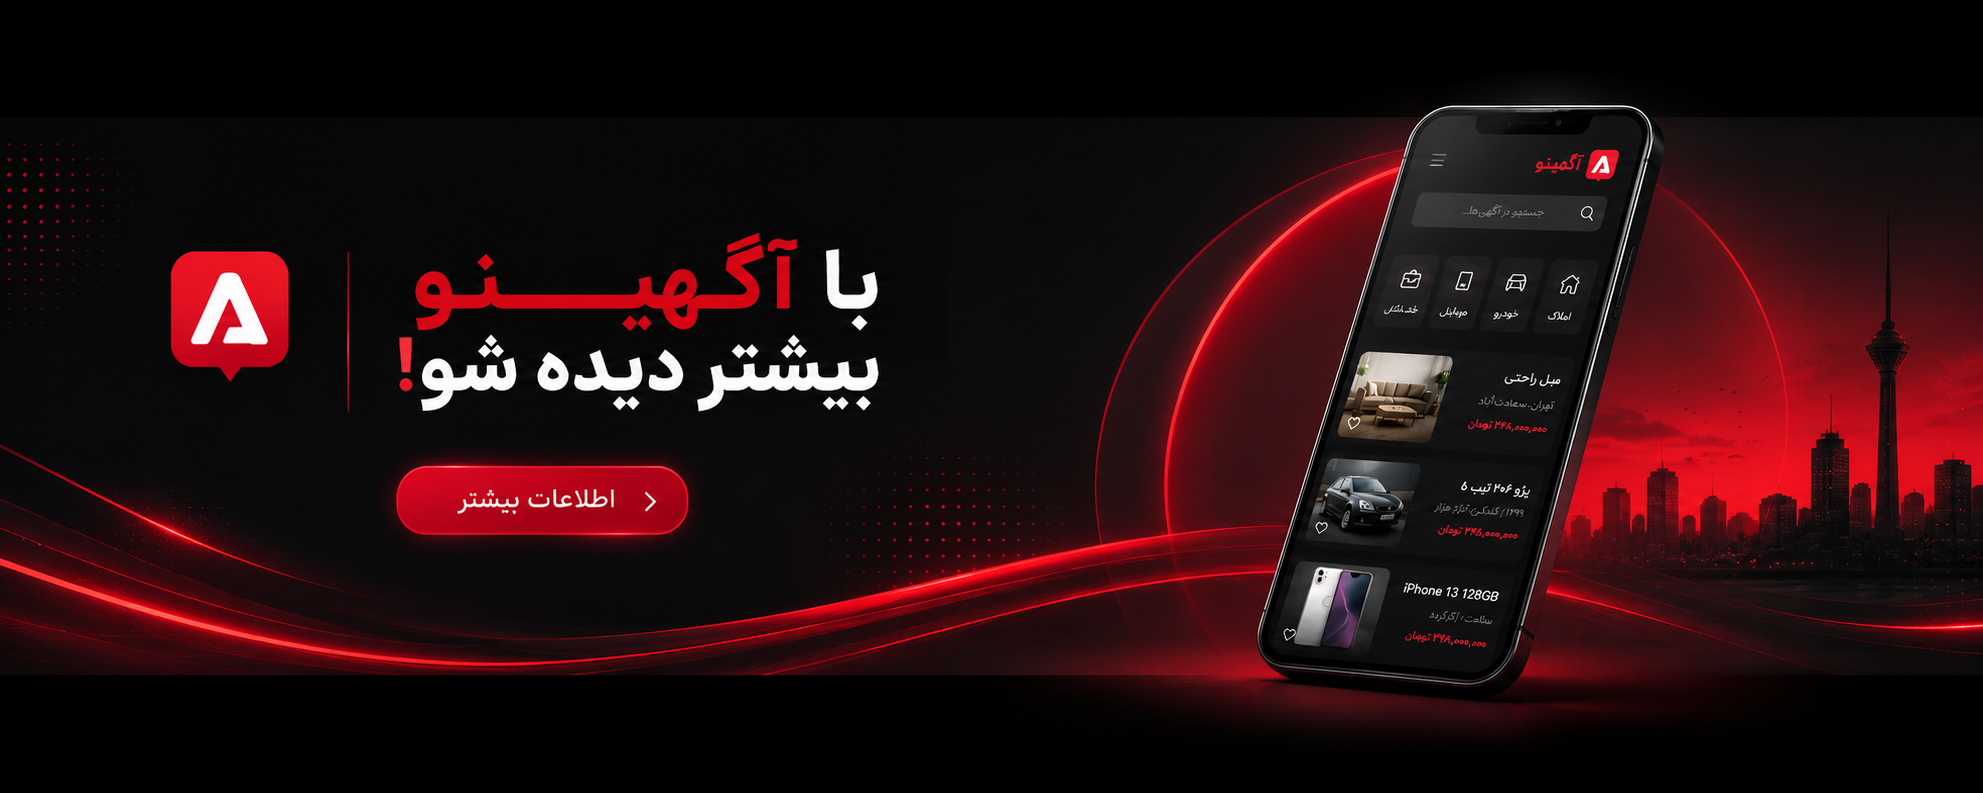
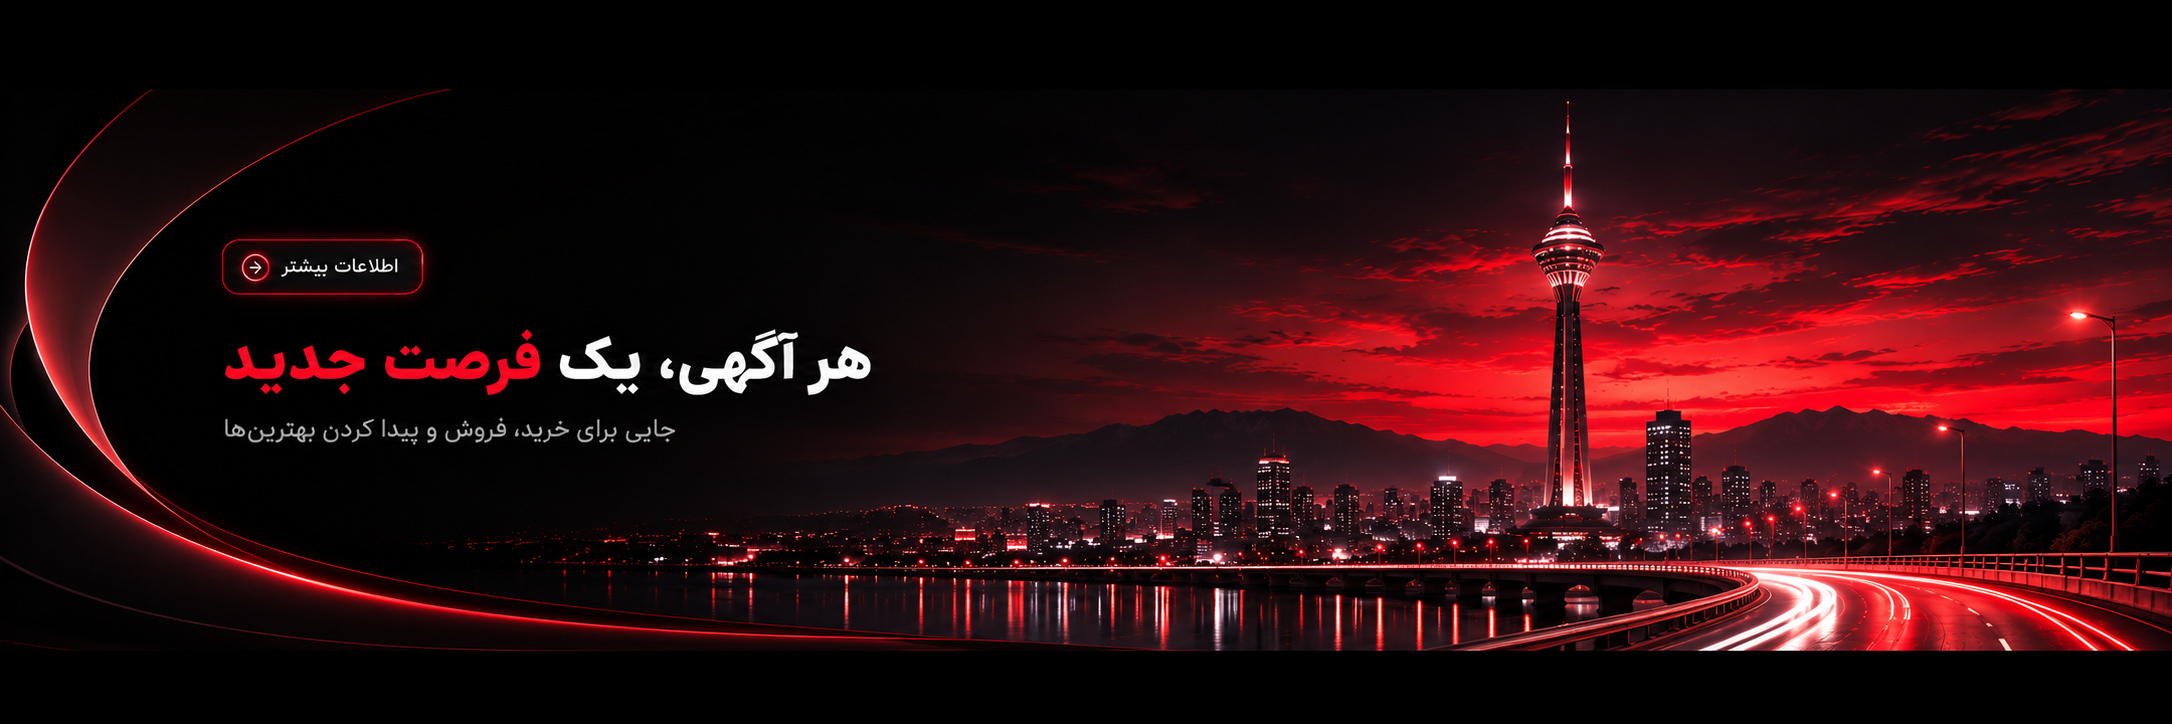
Bugs fixed

diff --git a/src/ui/BorderGlow.jsx b/src/ui/BorderGlow.jsx
@@ -224,6 +224,7 @@ const BorderGlow = ({
           "rgba(0,0,0,0.1) 0 1px 2px, rgba(0,0,0,0.1) 0 2px 4px, rgba(0,0,0,0.1) 0 4px 8px, rgba(0,0,0,0.1) 0 8px 16px, rgba(0,0,0,0.1) 0 16px 32px, rgba(0,0,0,0.1) 0 32px 64px",
       }}
     >
+      {/* mesh gradient border */}
       <div
         className="absolute inset-0 -z-[1] rounded-[inherit]"
         style={{
@@ -242,6 +243,7 @@ const BorderGlow = ({
         }}
       />
 
+      {/* mesh gradient fill near edges */}
       <div
         className="absolute inset-0 -z-[1] rounded-[inherit]"
         style={{
@@ -276,10 +278,12 @@ const BorderGlow = ({
         }}
       />
 
+      {/* outer glow */}
       <span
         className="pointer-events-none absolute z-[1] overflow-hidden rounded-[inherit]"
         style={{
           inset: 0,
+          overflow: "visible",
           maskImage: `conic-gradient(from ${angleDeg} at center, black 2.5%, transparent 10%, transparent 90%, black 97.5%)`,
           WebkitMaskImage: `conic-gradient(from ${angleDeg} at center, black 2.5%, transparent 10%, transparent 90%, black 97.5%)`,
           opacity: glowOpacity,
@@ -290,7 +294,7 @@ const BorderGlow = ({
         }}
       >
         <span
-          className="absolute inset-0 rounded-[inherit]"
+          className="absolute rounded-[inherit]"
           style={{
             filter: `blur(${glowRadius}px)`,
             boxShadow: buildBoxShadow(glowColor, glowIntensity),

diff --git a/src/ui/BannersSlideshow.jsx b/src/ui/BannersSlideshow.jsx
@@ -68,7 +68,7 @@ function BannersSlideshow() {
               key={banner.id}
               src={banner.src}
               alt={banner.alt}
-              className="h-52 w-full flex-shrink-0 object-cover md:h-[450px] lg:h-[550px]"
+              className="h-52 w-full flex-shrink-0 object-cover md:h-[450px] lg:h-[400px]"
             />
           ))}
         </div>

diff --git a/src/ui/CategorySection.jsx b/src/ui/CategorySection.jsx
@@ -1,5 +1,7 @@
 import { useNavigate } from "react-router";
 import BorderGlow from "./BorderGlow";
+// import BorderGlow from "@/components/BorderGlow";
+
 import { useGetCategories } from "../features/categories/useGetCategories";
 import * as Icons from "react-icons/fa";
 